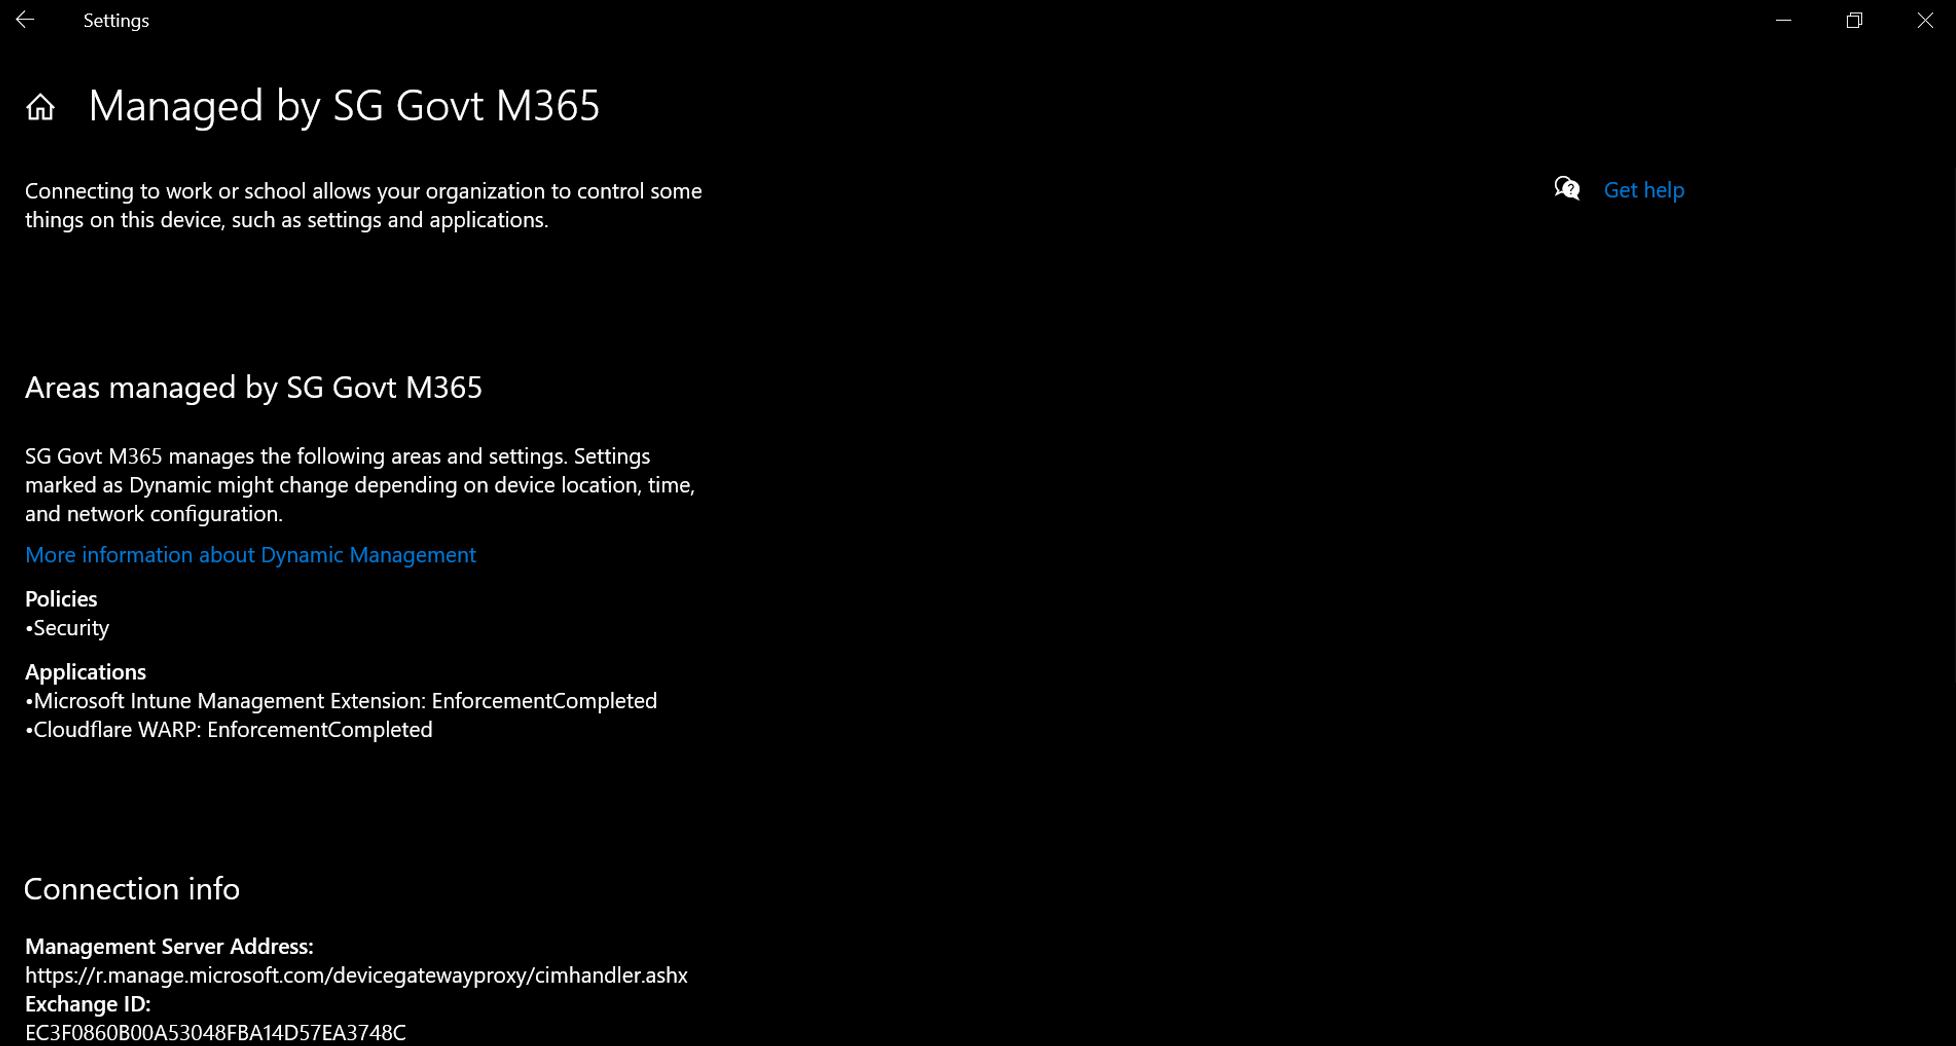
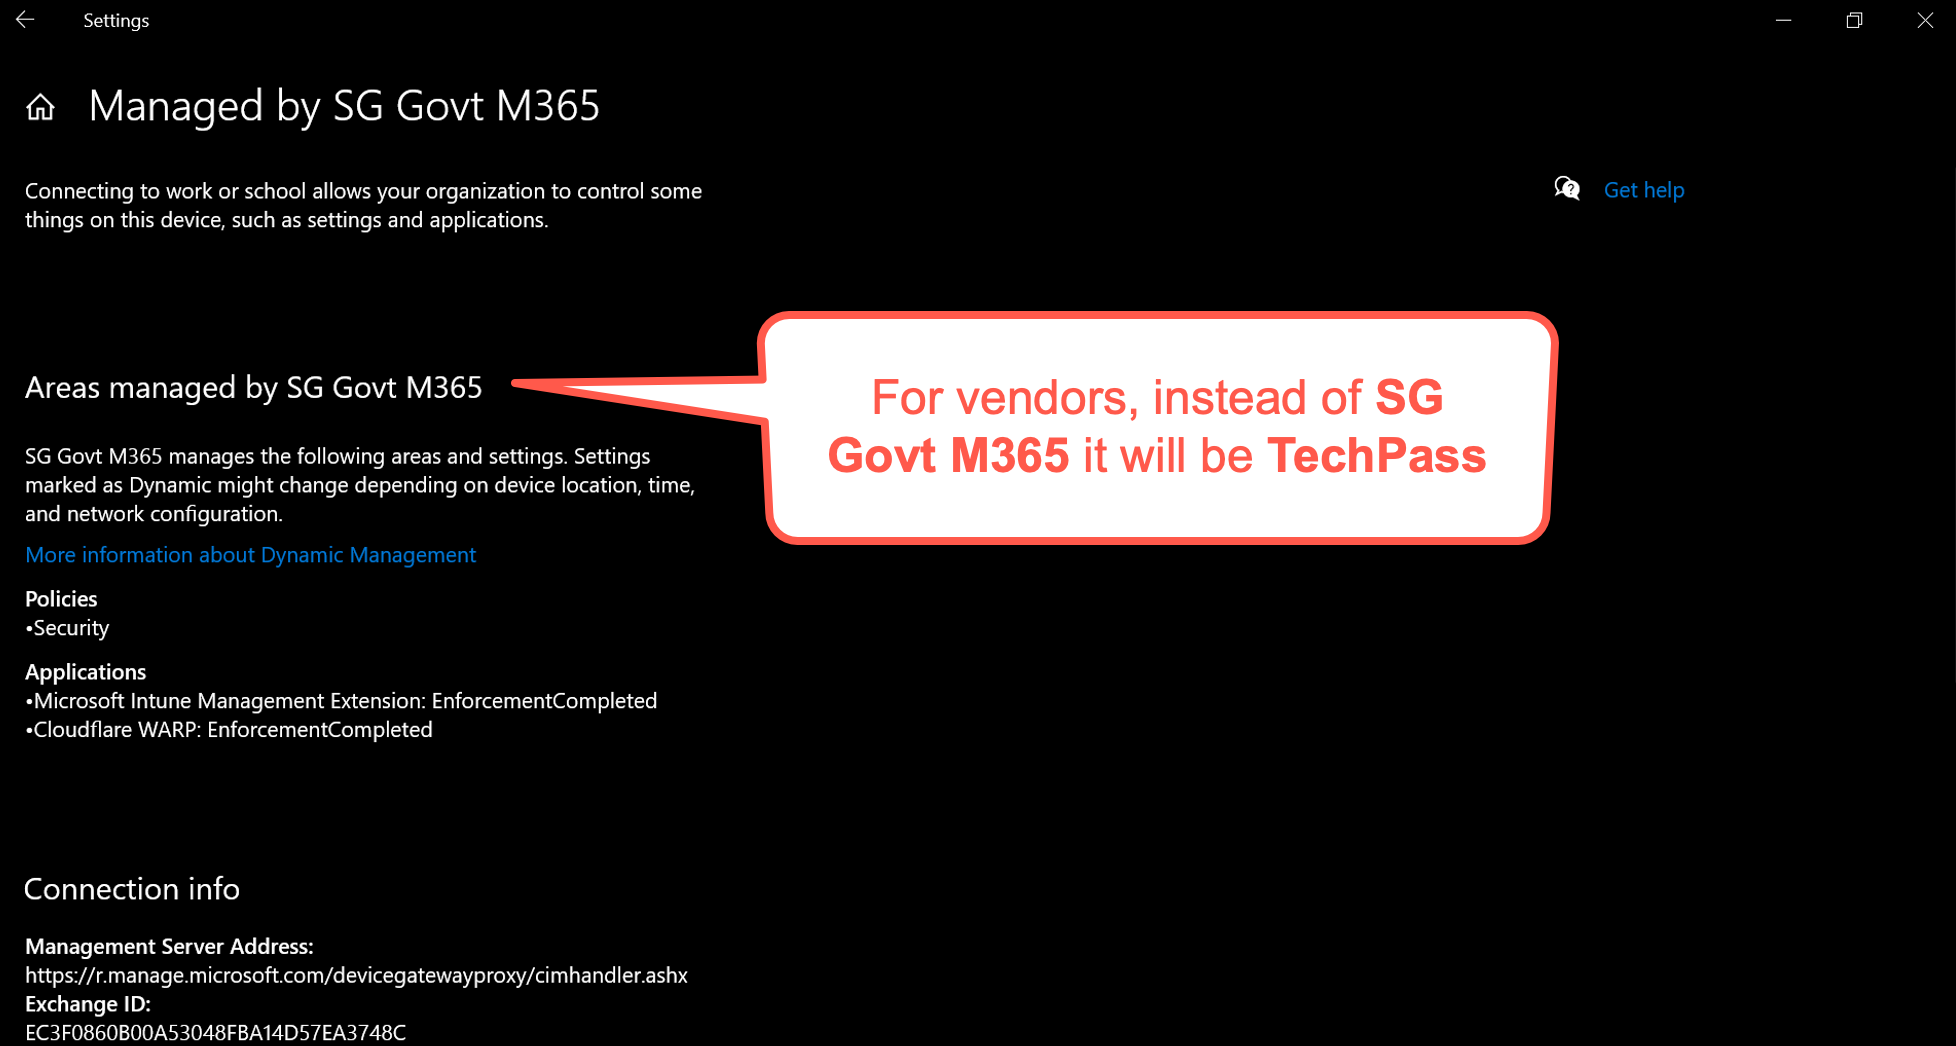
merged the windows cloudflare warp into the windows onboarding document and cleanup the document included the expand collapse widget

Changed region(s): [[0.2495, 0.2753, 0.8108, 0.5201]]

diff --git a/seed-onboarding-instructions-windows.md b/seed-onboarding-instructions-windows.md
@@ -1,4 +1,4 @@
-**SEED Onboarding Instructions (Windows)**
+# SEED Onboarding Instructions (Windows)
 
 This sections explains public officers and vendors how to onboard to SEED using their Windows device.
 
@@ -7,55 +7,116 @@ This sections explains public officers and vendors how to onboard to SEED using 
 
 During this onboarding journey you will do the following:
 
-1. Go to **Settings** > **Accounts** > **Access work or school** and click **Connect**.
 
-<kbd>![access-work-or-school](images/onboarding-instructions-for-windows/access-work-or-school.png)</kbd>
+<details>
+  <summary>a. Enrol device</summary><br>
 
-2a. If you are a public officer, sign in using your WOG ID, that is your_name@tech.gov.sg). You will be directed to the screen below to complete the 2FA process. If you have yet to set up 2FA, please follow the instructions [here](https://account.activedirectory.windowsazure.com/Proofup.aspx).
-<kbd>![gcc-login](images/onboarding-instructions-for-windows/gcc-login.png)</kbd>
+1. Go to **Settings** > **Accounts** > **Access work or school** and click **Connect** plus sign to add your work or school account.
 
-2b. If you are a vendor, sign in with your TechPass ID, that is your_name@techpass.gov.sg.
+<kbd>![access-work-or-school](images/onboarding-instructions-for-windows/access-work-or-school.png ':size=600')</kbd>
 
-3. Within a few minutes, you should receive some desktop notifications from &quot;Microsoft Intune Management Extension&quot; telling you that certain software has been installed onto your device.
+2. Approve your TechPass login using the authenticator app that was used to set up TechPass MFA. However, if you are a public officer, you must first approve your WOG login before approving your Techpass login.
+<!-- the appropriate login credentials to sign in with two-factor authentication:
+   - If you are a public officer, use your [WOG ID](terms-definitions).
+   - If you are a vendor, use your [TechPass ID](terms-definitions). -->
 
-<kbd>![settings](images/onboarding-instructions-for-windows/settings.png)</kbd>
+<kbd>![log-in-to-gcc](images/onboarding-for-macos/log-in-to-gcc.png ':size=500')</kbd>
 
-4. After around 5 minutes, check the &quot;Access work or school&quot; page again. You should see your account listed with the &quot;Info&quot; and &quot;Disconnect&quot; options as below. Click on the &quot;Info&quot; option and verify that you see something like the following. Note: Vendors will see &quot;TECHPASS&quot; instead of &quot;SG Govt M365&quot;.
+?> The above page will be displayed only for public officers.
 
-<kbd>![managed-by-sg-govt-m365](images/onboarding-instructions-for-windows/managed-by-sg-govt-m365.png)</kbd>
+3. Now GCC2 Tanium Windows gets installed on your device and Microsoft Intune Management Extension sends you a desktop notification about it.
+<!--3. Within a few minutes, you should receive some desktop notifications from **Microsoft Intune Management Extension** telling you that certain software has been installed onto your device.-->
 
-5. Once your device has been enrolled, complete the onboarding process by enabling BitLocker.
+<kbd>![settings](images/onboarding-instructions-for-windows/settings.png ':size=600')</kbd>
+
+4. <!--After around 5 minutes, check the **Access work or school** page again.--> Your account will be added and listed as a connection. This account has the <b>Info</b> and <b>Disconnect</b> options as shown below. Click on the <b>Info</b> option and verify that you see something like the following.
+
+?> Vendors will see **TechPass** instead of **SG Govt M365**.
+
+<kbd>![managed-by-sg-govt-m365](images/onboarding-instructions-for-windows/managed-by-sg-govt-m365.png ':size=600')</kbd>
+
+Now your device is enrolled.
+</details>
+
+<details>
+  <summary>b. Encrypt drive using BitLocker</summary><br>
+
+1. Click the **Start** icon on the taskbar and search for **Manage BitLocker** and choose to open it.
+2. If BitLocker is not turned on, select **Turn on BitLocker**.
+3. When asked to choose how to unlock your drive at start up, select **Enter a password**.
+
+<kbd>![enter-pwd](images/onboarding-instructions-for-windows/enter-pwd.png ':size=600')</kbd>
+
+4. To backup the recovery key for your computer, insert a thumb drive or any other form of removable storage device into the USB port of your computer.
+5. When asked how you would like to back up your recovery key, select **Save to a file**, save the file in the inserted removable storage device and click **Next**.
+
+!> Remove the external storage device and transfer this file to a safe location other than your computer.
+
+<kbd>![save-to-file](images/onboarding-instructions-for-windows/save-to-file.png ':size=600')</kbd>
+
+5. When asked how much of your drive to be encrypted, select **Encrypt entire drive(slower but best for PCs and drives already in use)** and click **Next**.
+
+<kbd>![encrypt-entire-drive](images/onboarding-instructions-for-windows/encrypt-entire-drive.png ':size=600')</kbd>
+
+6. When asked which encryption mode to use, select **New encryption mode(best for fixed drives on this device)** and click **Next**.
+
+<kbd>![new-encryption-mode](images/onboarding-instructions-for-windows/new-encryption-mode.png ':size=600')</kbd>
+
+7. The device encryption page is displayed. <!--Click **Start encrypting**.-->
+
+?> Depending on your system settings, you may be prompted to restart your computer before the encryption can start. If you are prompted to do so, restart your device, then return to the **Manage BitLocker** window to verify if encryption has started. A padlock icon on the hard drives in your Windows 10 File Explorer indicates that the hard drive has been encrypted.
+
+</details>
+<details>
+  <summary>c. Enrol on Cloudflare using WARP client</summary><br>
+
+1. Click the **Show hidden icons** arrow next to the notification area and make sure that Cloudflare WARP icon is displayed on your device or go to the **Start** menu and search for **Cloudflare WARP**.
+
+<kbd>![](images/cloudflare-warp-windows/check-cloudflare-warp-desktop-client.png ':size=400')</kbd>
+
+<!--<kbd>![cloudflare-systemtray-icon](images/cloudflare-warp-windows/cloudflare-systemtray-icon.png)</kbd>-->
+
+?> If it is not available on your device, install it from [Cloudflare App Center](https://install.appcenter.ms/orgs/cloudflare/apps/1.1.1.1-windows-1/distribution_groups/release).
+
+2. Disconnect from any other VPN that might be running as that could clash with Cloudflare.
+
+3. Run the Cloudflare WARP client. You will see an information page, followed by a privacy policy.
+
+4. Click **Next** and accept the policy.
+
+<kbd>![cloudflare-for-teams](images/cloudflare-warp-windows/cloudflare-for-teams.png ':size=400')</kbd>
+
+<!--You will be prompted to sign in with one of the three options.-->
+
+3. When prompted to sign in, choose **Azure AD – TechPass Prod**.
+
+![azure-ad-techpass-prod](images/cloudflare-warp-windows/azure-ad-techpass-prod.png ':size=400')
+
+5. Sign on using your TechPass credentials.
+
+6. Approve your TechPass login using the authenticator app that was used to set up TechPass MFA. However, if you are a public officer, you must first approve your WOG login before approving your Techpass login.
+
+<kbd>![techpass-sigin](images/cloudflare-warp-windows/techpass-sigin.png ':size=400')</kbd>
+
+6. Once you have successfully signed in, click the Cloudflare WARP icon. You should see the following page.
+
+<kbd>![after-signed-in](images/cloudflare-warp-windows/after-signed-in.png ':size=400')</kbd>
 
 
-a. Click the Windows button on your keyboard, or the Windows icon the bottom left corner of your desktop, and search for &quot;Manage BitLocker&quot;.
-b. Open the BitLocker management window and select &quot;Turn on BitLocker&quot;. Before you continue, **plug in a thumb drive or any other form of removable storage**.
+?> The WARP client connects your device to the Cloudflare network, which functions like a VPN. If you want to connect to a different VPN, first disconnect from WARP and exit it before doing so. If you do not exit the WARP client, it will attempt to automatically reconnect every hour and this may affect your existing VPN connection.
 
-c. When asked how you would like to unlock your drive at start up, choose **Enter a password**.
+</details>
 
-<kbd>![enter-pwd](images/onboarding-instructions-for-windows/enter-pwd.png)</kbd>
 
-d. When asked how you would like to back up your recovery key, select **Save to a file** and save the file in your removable storage medium (e.g. thumb drive). Make sure you transfer this file to a safe location outside of your computer after this process.
+If your onboarding is successful, within an hour, you will receive a successfully onboarded email to your organisational email address.
 
-<kbd>![save-to-file](images/onboarding-instructions-for-windows/save-to-file.png)</kbd>
+?> If you do not receive this email, please contact [SEED team](mailto:gcc2.0_support@tech.gov.sg).
 
-e. When asked how much of your drive to encrypt, select **Encrypt entire drive**.
+Shortly after this email, when you receive a desktop notification prompting to restart the device, do the following:
 
-<kbd>![encrypt-entire-drive](images/onboarding-instructions-for-windows/encrypt-entire-drive.png)</kbd>
+1. Restart your device.
+2. If prompted to enter your password, enter it.
 
-f. When asked which encryption mode to use, select **New encryption mode**.
+?>  While restarting, you will be notified that your device is renamed and will be prompted to reset your password.
 
-<kbd>![new-encryption-mode](images/onboarding-instructions-for-windows/new-encryption-mode.png)</kbd>
-
-g. At this point, you might be prompted to restart your device before BitLocker encryption can begin. Restart your device, then return to the **Manage BitLocker** window to verify that encryption has started.
-
-6. Cloudflare
-
-- Only upon confirming that you have completed step 5,you can follow the steps in **(5) Cloudflare WARP Client Enrollment (Windows).docx** to enroll the Cloudflare WARP.
-
-7. Post-Onboarding Notes
-
-- If onboarding was successful, you should receive an email informing you that your device has been successfully onboarded.
-  - Public officers will receive this email in their **GSIB email inbox** while vendors will receive this email at their **work email address used to create their TechPass account**.
-  - Due to nature of the verification process, this email can take **up to an hour**. Please contact the SEED team for support if you still have not received the email after an hour.
-
-- After you receive the onboarding email, you will receive a desktop notification in around 20 minutes saying that **your device has been renamed and will restart in 5 minutes**. This is expected, and the rename is required for SEED to function properly. **Please do not change your device name thereafter**.
+3. Reset your password.

diff --git a/seed-onboarding-instructions-for-macos.md b/seed-onboarding-instructions-for-macos.md
@@ -213,11 +213,11 @@ Enable Full Disk Access is for TaniumClient, Microsoft Defender ATP and Microsof
 
 <!--- If you encounter any issues during onboarding, refer to [Common issues and resolution](#common-issues-and-resolution) before reaching out to the SEED team.-->
 
-   If your onboarding is successful, within an hour, you will receive a successfully onboarded email to the email address that was used for creating your TechPass account.
+If your onboarding is successful, within an hour, you will receive a successfully onboarded email to  your organisational email address.  
 
- Note: If you do not receive this email, please contact SEED team at gcc2.0_support@tech.gov.sg.
+?> If you do not receive this email, please contact [SEED team](mailto:gcc2.0_support@tech.gov.sg).
 
-  Shortly after this email, when you receive a desktop notification prompting to restart the device, do the following:
+Shortly after this email, when you receive a desktop notification prompting to restart the device, do the following:
 
 1. Restart your device.
 2. If prompted to enter your password, enter it.

diff --git a/common-issues-while-onboarding-using-macos.md b/common-issues-while-onboarding-using-macos.md
@@ -5,8 +5,8 @@
 
   <kbd>![profile-installation-failed](images/onboarding-for-macos/profile-installation-failed.png)</kbd>
 
-    1. Go to the **Apple** menu > **System Preferences** > **Profiles**.
-    2. If **Management Profile** is already an existing profile, select it and remove by clicking the minus icon at the bottom left corner.
+    1. Go to the <b>Apple</b> menu > <b>System Preferences</b> > <b>Profiles</b>.
+    2. If <b>Management Profile</b> is already an existing profile, select it and remove by clicking the minus icon at the bottom left corner.
 
 </details>
 

diff --git a/seed-offboarding-instructions-for-macos.md b/seed-offboarding-instructions-for-macos.md
@@ -81,7 +81,7 @@ This section guides the existing SEED users to offboard from it. The offboarding
 
   If the script has already expired, choose one of the below options as appropriate:
 
-  - If you are a public officer, contact SEED team at gcc2.0_support@tech.gov.sg to get the offboarding script.
+  - If you are a public officer, contact [SEED team](mailto:gcc2.0_support@tech.gov.sg) to get the offboarding script.
 
   - If you are a vendor, contact your Defender ATP administrator to [get the offboarding script](get-offboarding-scripts-for-microsoft-defender-atp).
 

diff --git a/_sidebar.md b/_sidebar.md
@@ -6,9 +6,8 @@
   * [Onboard](seed-onboarding-instructions-for-macos)
     * [Common onboarding issues](common-issues-while-onboarding-using-macos)
   * [Offboard](seed-offboarding-instructions-for-macos)
-  <!--* [Cloudflare WARP Client enrolment](cloudflare-warp-client-enrollment-macos)-->
+
 * Windows  
   * [Onboard](seed-onboarding-instructions-windows)
   * [Offboard](seed-offboarding-instructions-for-windows)
-  * [Cloudflare WARP Client enrolment](cloudflare-warp-client-enrollment-windows)
 * [Term definitions](term-definitions)
